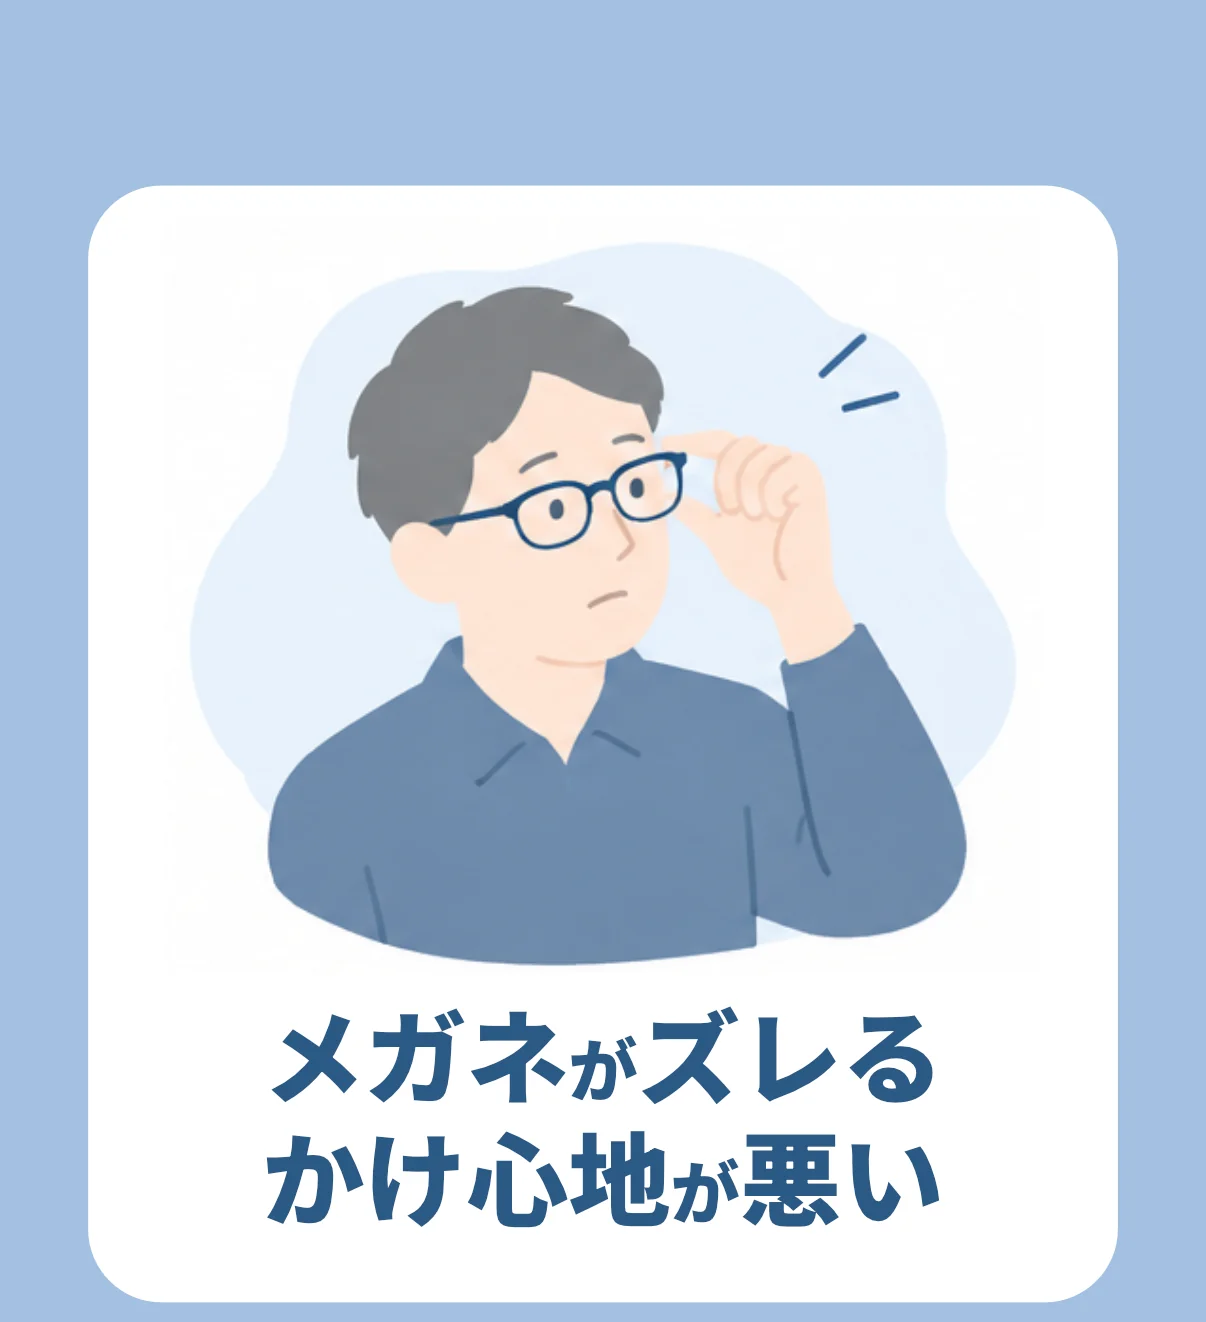
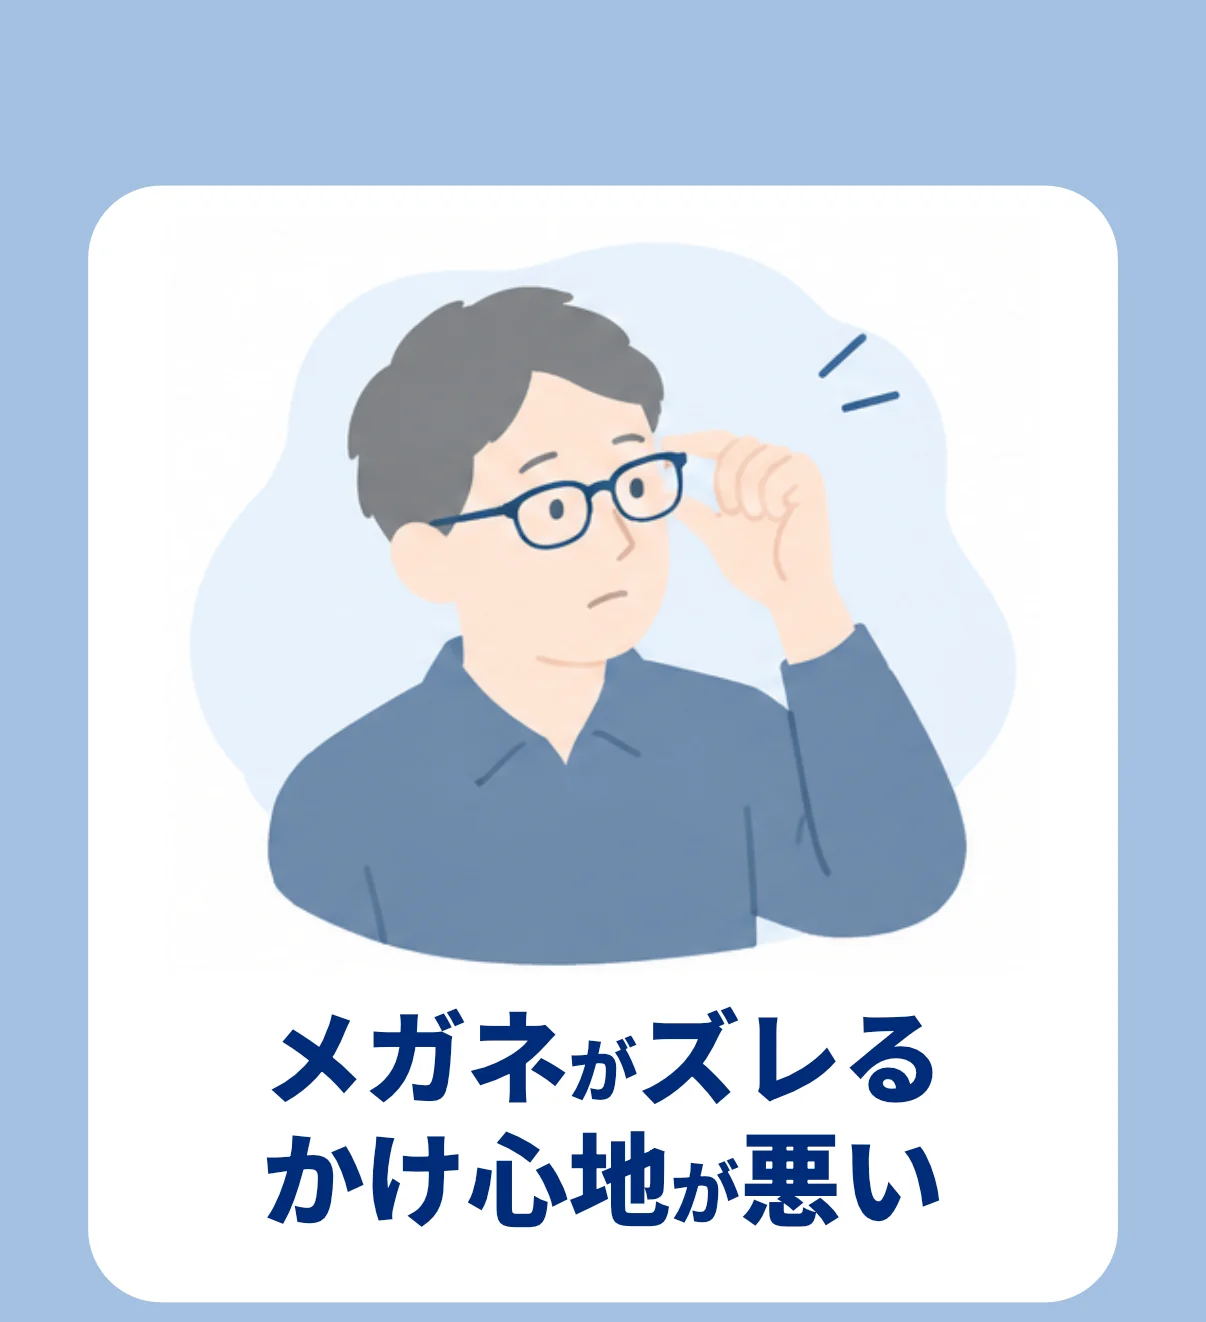
悩みカード3枚を再差し替え(悩みの見出しを#002C7Bにそろえた版)

Changed region(s): [[0.2148, 0.7443, 0.7977, 0.9304], [0.675, 0.7443, 0.767, 0.8374]]

diff --git a/wp-deploy/page-lp-shitadori2026.php b/wp-deploy/page-lp-shitadori2026.php
@@ -888,22 +888,22 @@ $lp_assets = get_stylesheet_directory_uri() . '/lp/assets/shitadori2026/img';
         </svg>
       </div>
       <div class="nayami-card">
-        <img loading="lazy" decoding="async" class="reveal" src="<?php echo $lp_assets; ?>/nayami-1-q.webp?v=479bb3d9" width="1207" height="1496" alt="こんなこと、ありませんか？ スマホやパソコンを長時間使用すると、目の疲れを感じる">
+        <img loading="lazy" decoding="async" class="reveal" src="<?php echo $lp_assets; ?>/nayami-1-q.webp?v=9003d79d" width="1207" height="1496" alt="こんなこと、ありませんか？ スマホやパソコンを長時間使用すると、目の疲れを感じる">
         <img loading="lazy" decoding="async" class="nayami-arrow" src="<?php echo $lp_assets; ?>/nayami-1-arrow.webp?v=789f9a3f" width="1207" height="148" alt="">
         <img loading="lazy" decoding="async" class="reveal" src="<?php echo $lp_assets; ?>/nayami-1-label.webp?v=24a1ee01" width="1207" height="146" alt="アイメガネなら">
         <img loading="lazy" decoding="async" class="nayami-answer" src="<?php echo $lp_assets; ?>/nayami-1-a.webp?v=55db6d74" width="1207" height="1188" alt="目の疲れを無料でチェック。調節機能解析装置「アコモレフ」を元に目の「調節力」や「ストレス度」を数値化し、楽に見えるメガネをご案内します。">
       </div>
       <div class="nayami-card">
-        <img loading="lazy" decoding="async" class="reveal" src="<?php echo $lp_assets; ?>/nayami-2-q.webp?v=8451c1b0" width="1206" height="1322" alt="メガネがズレる、かけ心地が悪い">
+        <img loading="lazy" decoding="async" class="reveal" src="<?php echo $lp_assets; ?>/nayami-2-q.webp?v=f8ca53c5" width="1206" height="1322" alt="メガネがズレる、かけ心地が悪い">
         <img loading="lazy" decoding="async" class="nayami-arrow" src="<?php echo $lp_assets; ?>/nayami-2-arrow.webp?v=fb81f847" width="1206" height="145" alt="">
         <img loading="lazy" decoding="async" class="reveal" src="<?php echo $lp_assets; ?>/nayami-2-label.webp?v=0b24d237" width="1206" height="143" alt="アイメガネなら">
-        <img loading="lazy" decoding="async" class="nayami-answer" src="<?php echo $lp_assets; ?>/nayami-2-a.webp?v=2fb1cb62" width="1206" height="1390" alt="眼鏡作製技能士がかけ心地を調整。お客様のお顔に合わせて、快適な装用感をサポートします。">
+        <img loading="lazy" decoding="async" class="nayami-answer" src="<?php echo $lp_assets; ?>/nayami-2-a.webp?v=6610c10f" width="1206" height="1390" alt="眼鏡作製技能士がかけ心地を調整。お客様のお顔に合わせて、快適な装用感をサポートします。">
       </div>
       <div class="nayami-card">
-        <img loading="lazy" decoding="async" class="reveal" src="<?php echo $lp_assets; ?>/nayami-3-q.webp?v=08620a4d" width="1206" height="1326" alt="スマホや新聞など、小さい文字が見にくい">
+        <img loading="lazy" decoding="async" class="reveal" src="<?php echo $lp_assets; ?>/nayami-3-q.webp?v=78907482" width="1206" height="1326" alt="スマホや新聞など、小さい文字が見にくい">
         <img loading="lazy" decoding="async" class="nayami-arrow" src="<?php echo $lp_assets; ?>/nayami-3-arrow.webp?v=e07177e4" width="1206" height="142" alt="">
         <img loading="lazy" decoding="async" class="reveal" src="<?php echo $lp_assets; ?>/nayami-3-label.webp?v=14550339" width="1206" height="157" alt="アイメガネなら">
-        <img loading="lazy" decoding="async" class="nayami-answer" src="<?php echo $lp_assets; ?>/nayami-3-a.webp?v=efb89326" width="1206" height="1375" alt="15項目の診断で、ぴったりの見え方に。普段よく見るもの・過ごし方をヒアリング。生活スタイルに合ったレンズ・度数をご提案します。">
+        <img loading="lazy" decoding="async" class="nayami-answer" src="<?php echo $lp_assets; ?>/nayami-3-a.webp?v=cb5fe8bf" width="1206" height="1375" alt="15項目の診断で、ぴったりの見え方に。普段よく見るもの・過ごし方をヒアリング。生活スタイルに合ったレンズ・度数をご提案します。">
       </div>
     </section>
 
